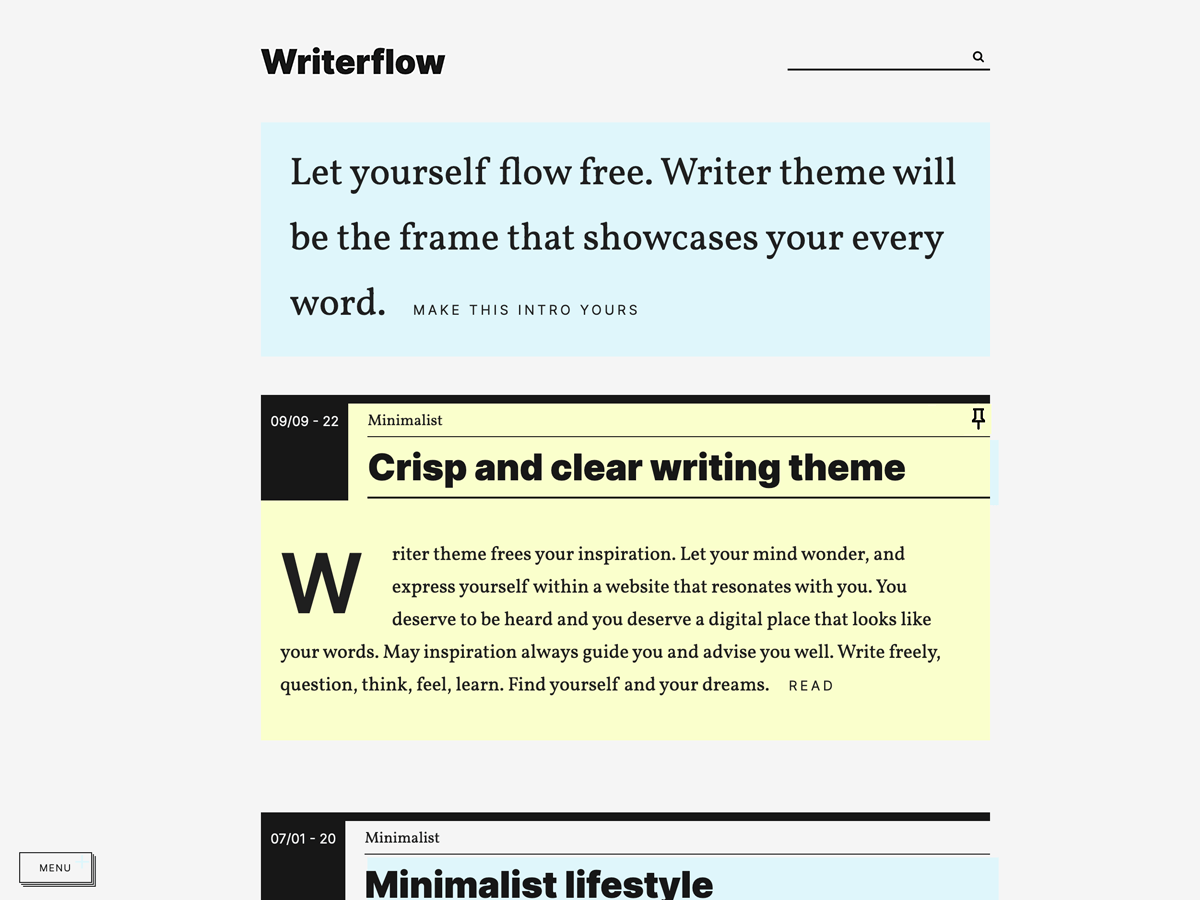
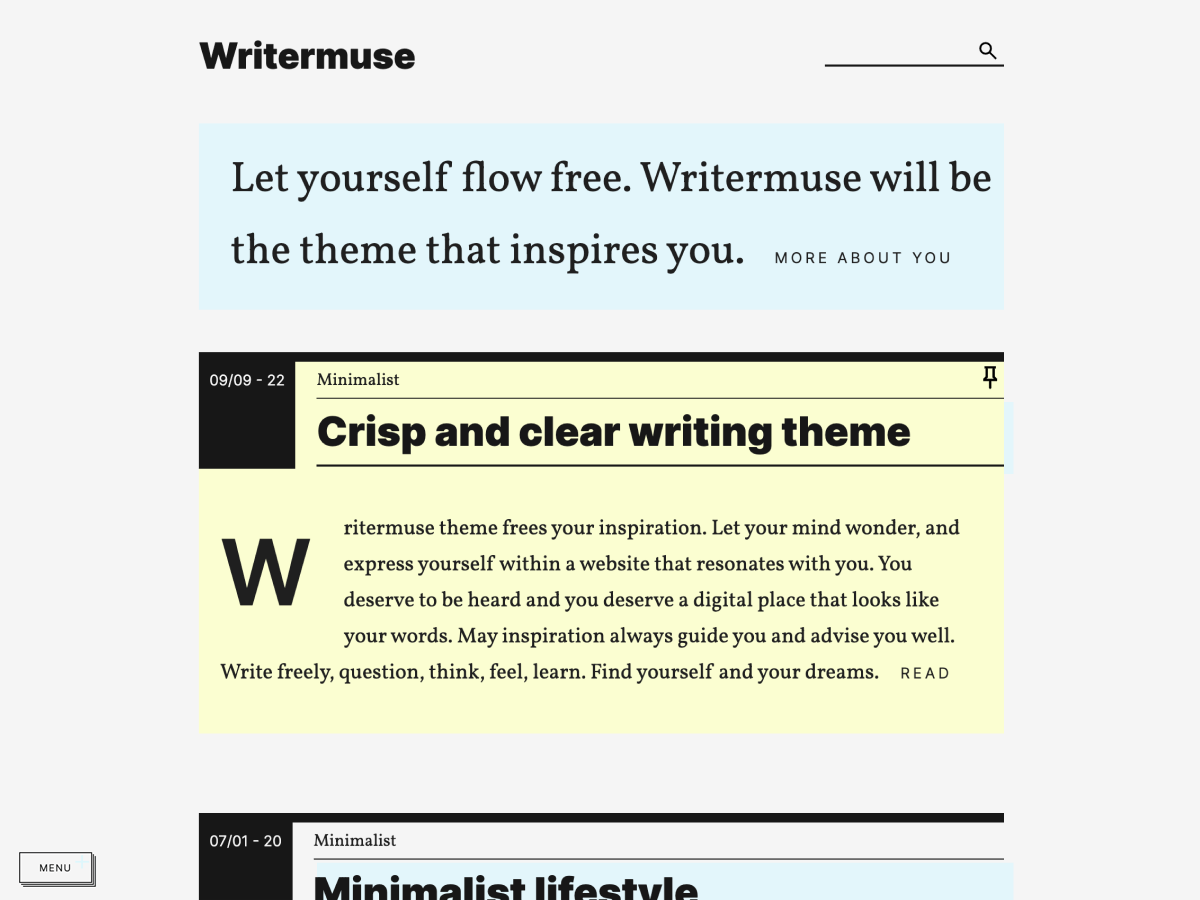
1.6

diff --git a/style.css b/style.css
@@ -4,7 +4,7 @@ Theme URI: https://github.com/arnesava/writermuse
 Author: Arne
 Author URI: https://arnesava.com
 Copyright: ©2023 Arne Sava
-Version: 1.5
+Version: 1.6
 Text Domain: writermuse
 Description: Writermuse - the theme for your story writing inspiration.
 Requires at least: 6.0

diff --git a/style.scss b/style.scss
@@ -4,7 +4,7 @@ Theme URI: https://github.com/arnesava/writermuse
 Author: Arne
 Author URI: https://arnesava.com
 Copyright: ©2023 Arne Sava
-Version: 1.5
+Version: 1.6
 Text Domain: writermuse
 Description: Writermuse - the theme for your story writing inspiration.
 Requires at least: 6.0

diff --git a/assets/js/custom.js b/assets/js/custom.js
@@ -1,4 +1,4 @@
-/*! Version: 1.5 */
+/*! Version: 1.6 */
 jQuery(document).ready(function ($) {
 	// Main nav toggle
 	$("#nav-toggle").on('click', function (e) {

diff --git a/functions.php b/functions.php
@@ -6,7 +6,7 @@ if ( ! isset( $content_width ) ) {
 }
 
 // Set version constant
-define( 'WRITERFLOW_VERSION', '1.5' );
+define( 'WRITERFLOW_VERSION', '1.6' );
 
 if ( ! function_exists( 'writermuse_setup' ) ) {
 	function writermuse_setup() {
@@ -66,7 +66,7 @@ add_action( 'widgets_init', 'writermuse_widgets_init' );
 function writermuse_scripts() {
 	wp_enqueue_style( 'writermuse-style', get_template_directory_uri() . '/style.css', array(), WRITERFLOW_VERSION, "all" );
 
-	wp_enqueue_script( 'writermuse-customjs', get_template_directory_uri() . '/assets/js/custom-min.js', array('jquery'), WRITERFLOW_VERSION, true );
+	wp_enqueue_script( 'writermuse-customjs', get_template_directory_uri() . '/assets/js/custom.min.js', array('jquery'), WRITERFLOW_VERSION, true );
 	wp_localize_script( 'writermuse-ajax', 'ajax', array( 'url' => admin_url( 'admin-ajax.php' ) ) );
 
 	if ( is_singular() && comments_open() && get_option( 'thread_comments' ) ) {
